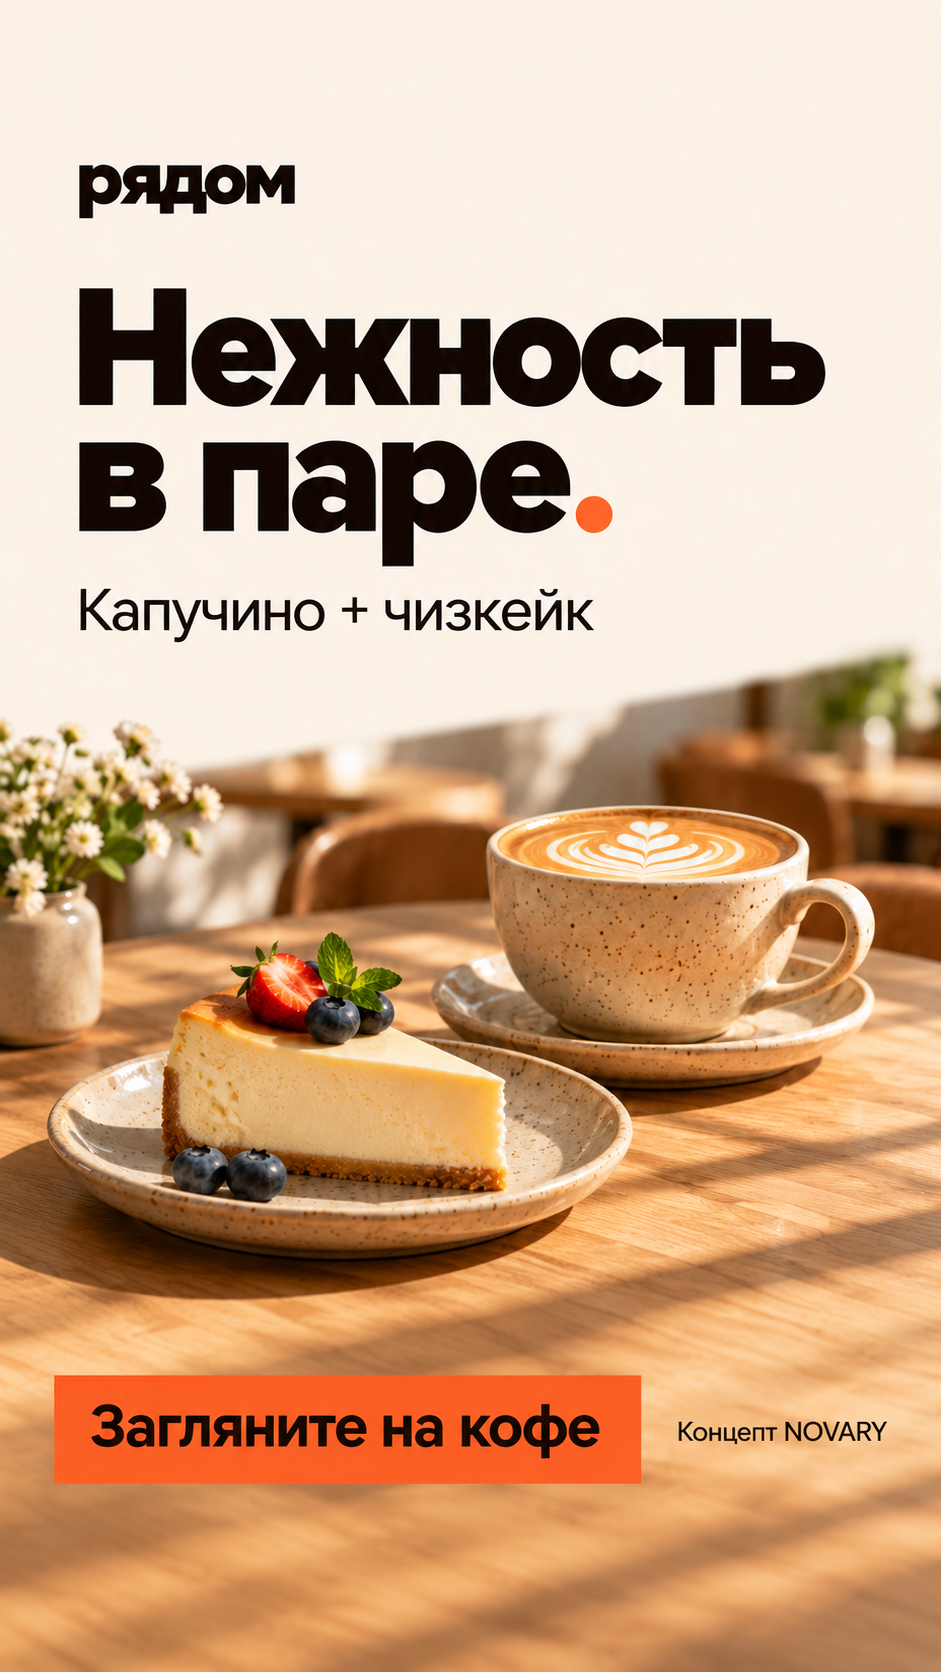
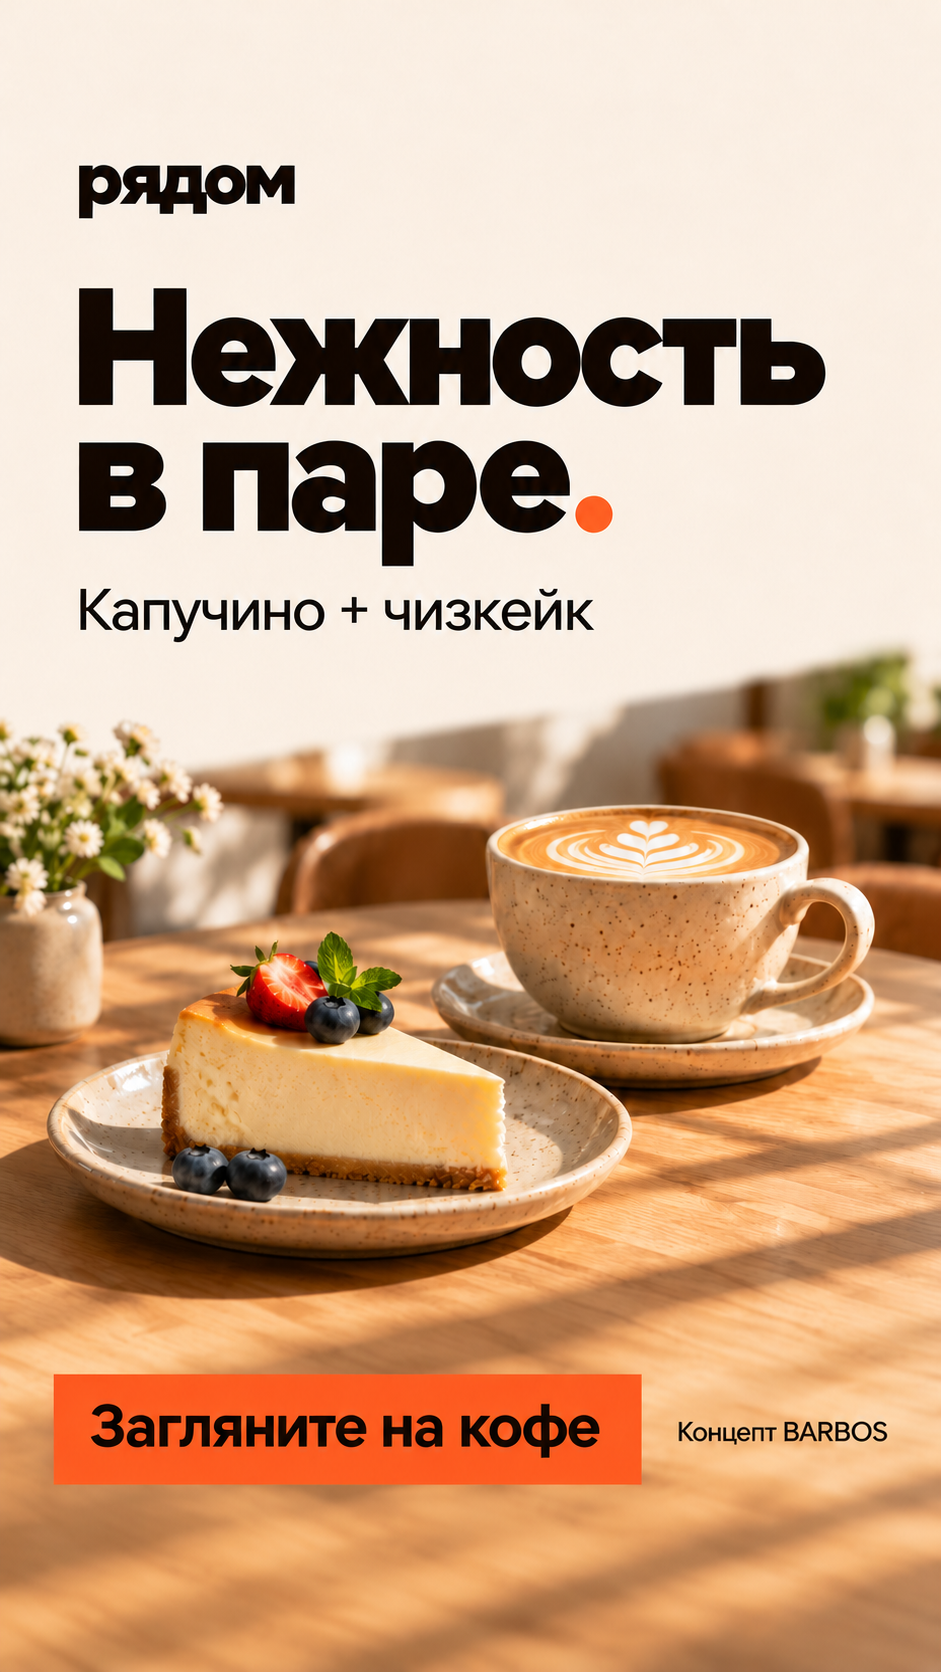
Update portfolio credits to BARBOS

diff --git a/README.md b/README.md
@@ -4,7 +4,7 @@
 
 ## Публикация
 
-Существующий проект Cloudflare Pages: `novary`, https://novary.pages.dev/. Репозиторий: `EgprEfanov7117/novary-website`, production-ветка `main`. Команда сборки — `npm run build:cloudflare`, публичный каталог — `dist/client`. Настройки платформы и D1-привязка — `wrangler.jsonc`.
+Существующий проект Cloudflare Pages: `novary`, https://novary.pages.dev/. Репозиторий: `EgprEfanov7117/barbos-website`, production-ветка `main`. Команда сборки — `npm run build:cloudflare`, публичный каталог — `dist/client`. Настройки платформы и D1-привязка — `wrangler.jsonc`.
 
 Версия Wrangler закреплена в зависимостях. `scripts/build-cloudflare.mjs` заранее собирает Functions в `dist/client/_worker.js/` (Pages advanced mode). Публиковать нужно через Wrangler 4.154.0 из проекта: встроенная Git-сборка Pages использует Wrangler 3.114.17 и повторно обрабатывает Worker несовместимым способом. Установка современного Wrangler в зависимостях не меняет встроенный финальный этап Cloudflare. Каталог Worker не является публичной статикой.
 
